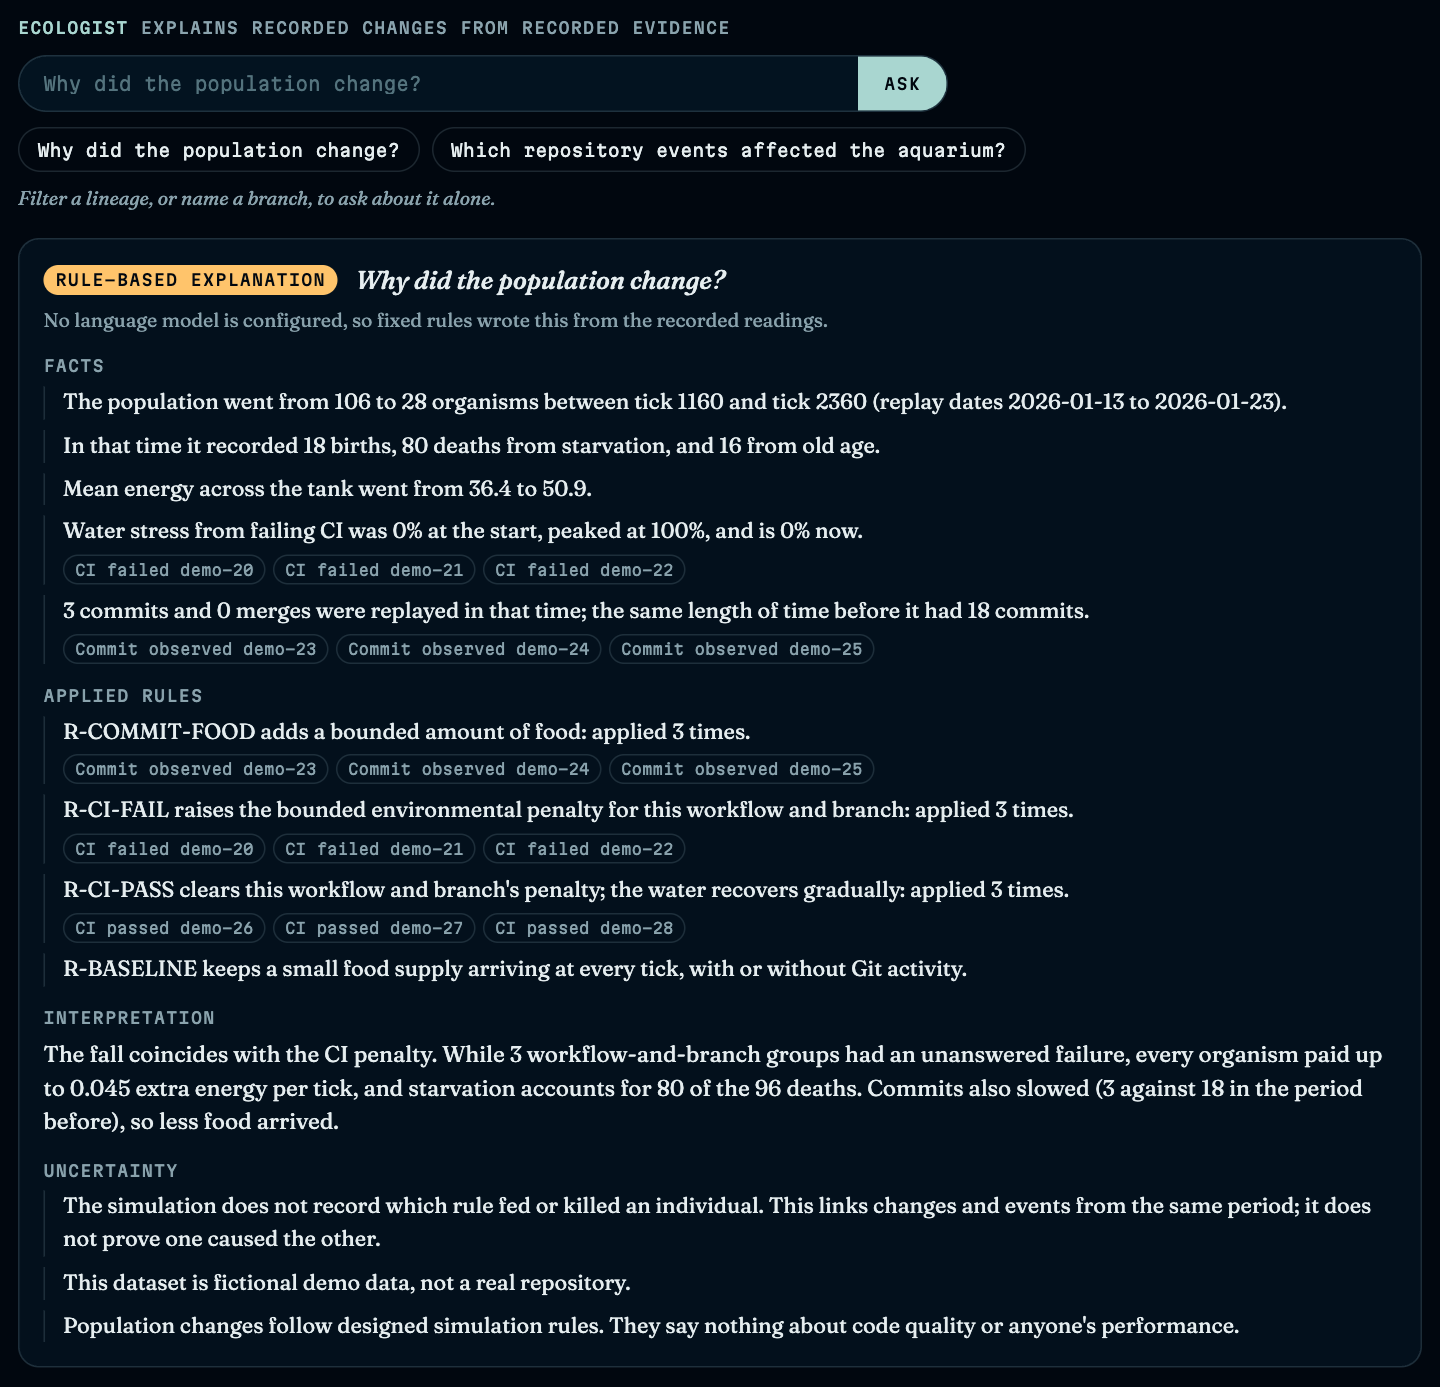
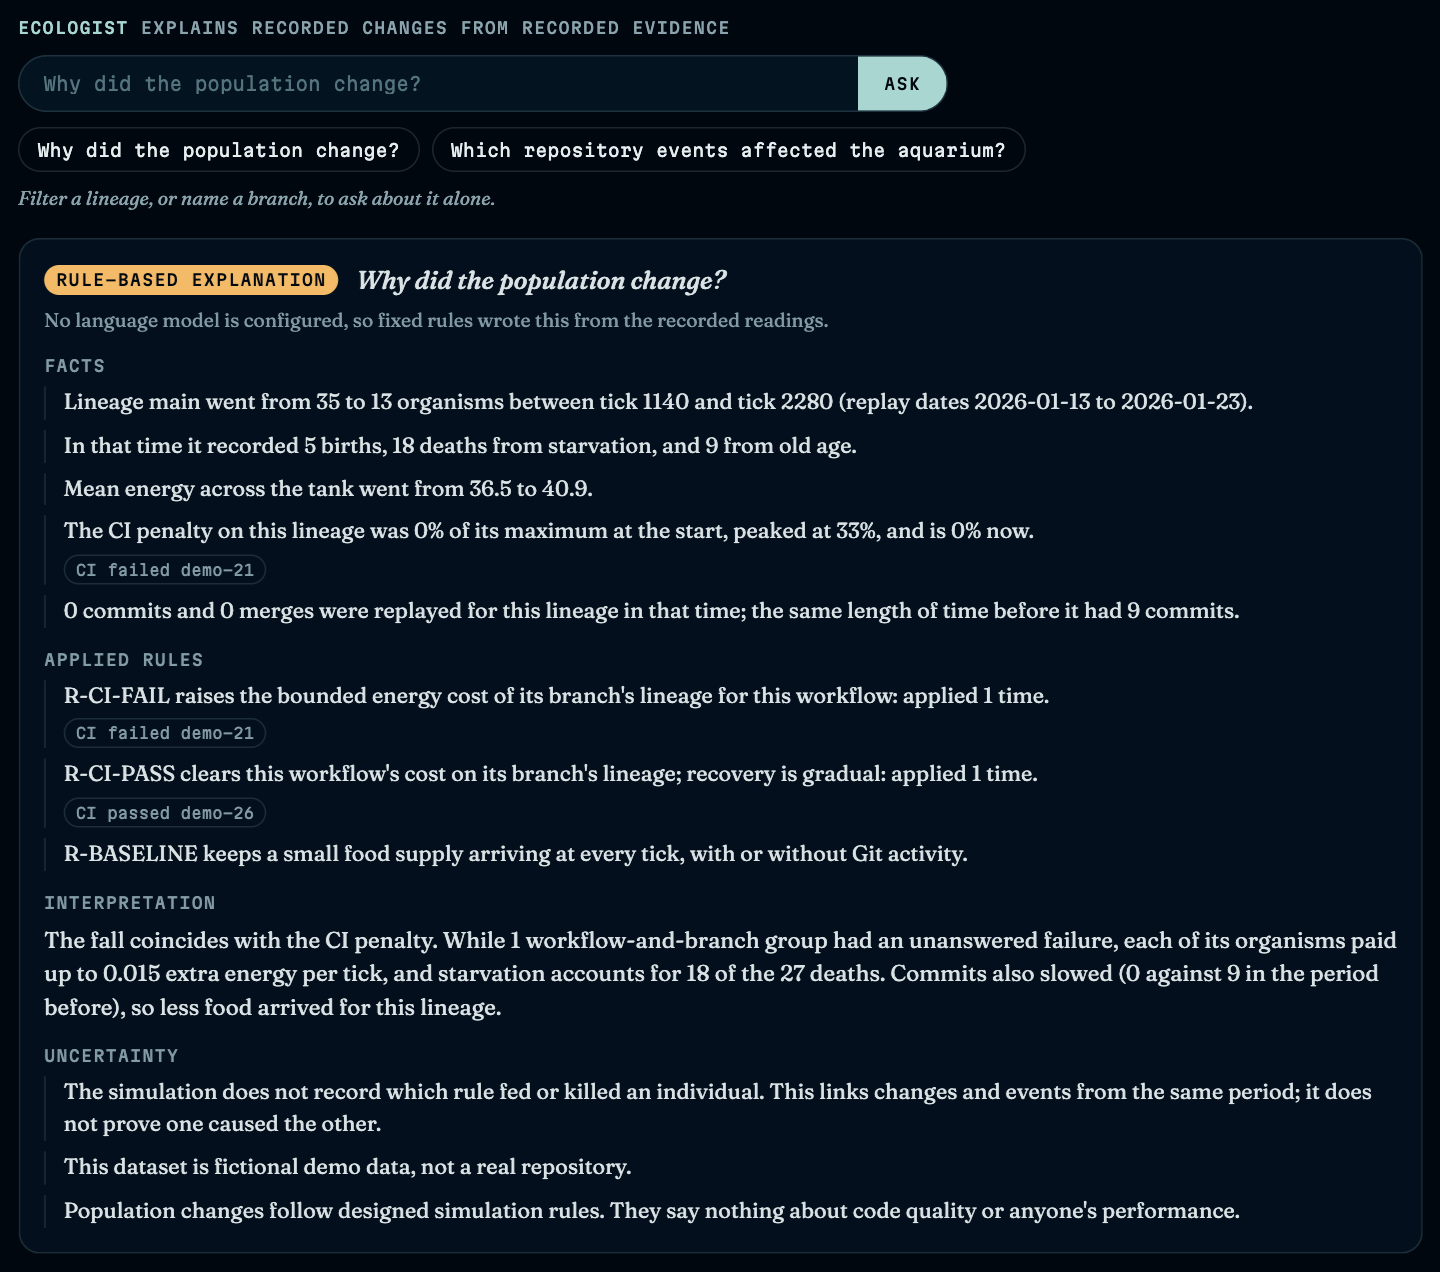
docs: describe per-branch effects and the new demo story

Changed region(s): [[0.0, 0.0, 0.9688, 0.9811]]

diff --git a/README.md b/README.md
@@ -2,7 +2,7 @@
 
 **Your repository is an ecosystem. Your code is alive.**
 
-![Timelapse of the built-in demo in a 3D aquarium: fish multiply as commits arrive, the water turns murky and the population collapses while CI is failing, then it clears and recovers after fixes and merges. One fish is followed in the side panel until it starves, and a chart tracks each lineage.](docs/demo.gif)
+![Timelapse of the built-in demo in a 3D aquarium: each branch is its own kind of fish and is fed in its own colour as commits arrive. When CI fails on three branches their fish thin out while the fourth branch carries on, then the main branch recovers as fixes and merges land. One fish is followed in the side panel until it starves, and a chart tracks each lineage.](docs/demo.gif)
 
 *The built-in demo as a timelapse: 30 days of a fictional repository replayed as a living aquarium. It takes about three minutes at normal speed.*
 
@@ -14,21 +14,21 @@ The goal is to make software history visible, explorable, and explainable throug
 
 ## What you are watching
 
-The timelapse is the built-in synthetic demo with seed 1: 67 fictional repository events replayed against a living population. Reset with the same seed and it plays out the same way every time.
+The timelapse is the built-in synthetic demo with seed 1: 68 fictional repository events on four branches replayed against a living population. Reset with the same seed and it plays out the same way every time.
 
 | Replay | Repository activity | In the aquarium |
 | --- | --- | --- |
-| Days 0–9 | Two commits a day, one pull request opened | Every commit drops food and the population grows from 64 to about 105 |
-| Days 9–16 | Three CI workflows fail on three branches while commits slow down | The water turns murky, every organism pays an energy penalty, and the population falls to about 30 |
-| Days 16–30 | Each workflow passes again, two pull requests merge, and commits return at three a day | The water clears gradually, each merge releases a pulse of food, and the population recovers to about 70 |
+| Days 0–9 | Two commits a day spread over all four branches, most of them on `main` | Each commit drops food in its own branch's colour. The tank grows from 64 to about 100, and `main` grows most |
+| Days 9–16 | CI fails on `main`, `feature/coral-cache`, and `fix/pump-timeout`, and work on them stops. Only `experiment/glow` keeps getting commits | The three failing lineages pay an energy penalty and get no food, so they shrink (`main` from about 33 to 14). The experiment's lineage holds steady at about 20. The tank falls to about 42 |
+| Days 16–30 | Each workflow passes again. The two finished branches merge into `main` and go quiet, while `main` and the experiment carry on | Each merge releases food for `main`, which recovers to about 34, level with the experiment. The two merged branches stay small. The tank ends near 80 |
 
 How to read the tank:
 
-- **Species and colour** are the lineage, one per observed branch: each branch is its own kind of fish (a reef fish, a slim dart, a tall disc, a fantail), shown beside its name in the legend. Fish of a lineage school together, and each fish's own `hue` gene shifts its shade slightly. With more than four branches the four shapes repeat in new colours.
+- **Species and colour** are the lineage, one per observed branch: each branch is its own kind of fish (a reef fish, a slim dart, a tall disc, a fantail), shown beside its name in the legend. Repository events act on the lineage of their own branch, so a lineage does well when its branch is active and its CI is passing. Fish of a lineage school together, and each fish's own `hue` gene shifts its shade slightly. With more than four branches the four shapes repeat in new colours.
 - **A pale, washed-out fish** is a hungry one; colour returns as it feeds.
 - **Size, slimness, fin size, and tail-beat speed** come from each fish's genes: faster swimmers are slimmer and beat their tails faster.
-- **Yellow pellets** are food. Commits and merges add it; a small baseline supply never stops.
-- **Murky green water** means a CI workflow is failing, or the tank is still recovering from one that was.
+- **Coloured pellets** are food for the lineage of that colour: a commit feeds its own branch's lineage, and a merge feeds the lineage of the branch it merged into. **Pale pellets** are the small baseline supply, which anyone may eat.
+- **Murky green water** means CI is failing somewhere. Only the lineage of the failing branch pays for it: its entry in the Lineages list is marked "CI penalty" and its fish turn pale as they go hungry. The water shows the average across lineages.
 - **A dashed arc** joins a fish from each lineage when a pull request opens between their branches; **a solid arc** marks a merge.
 - **A fish that grows in from nothing** was just born; **one that fades and sinks** has died.
 - **The timeline** under the tank marks every event: red for a CI failure, white for a merge.
@@ -40,7 +40,7 @@ How to read the tank:
 
 ### Ask why
 
-![The Ecologist answering "Why did the population change?" during the demo's CI failures, with facts, applied rules, interpretation, and uncertainty in separate sections and the cited events listed under each statement](docs/ecologist.png)
+![The Ecologist answering "Why did the population change?" about the `main` lineage alone during the demo's CI failures, with facts, applied rules, interpretation, and uncertainty in separate sections and the cited events listed under each statement](docs/ecologist.png)
 
 The Ecologist answers from what was recorded, in four parts: facts, the rules that ran, an interpretation, and what the records cannot establish. Each statement lists the replayed events it rests on, linked to GitHub when the data is real. The answer above was written by fixed rules, and is labelled as such.
 
@@ -100,15 +100,16 @@ These mappings are designed simulation rules, not measurements of software quali
 
 | Input | Planned aquarium effect | Interpretation boundary |
 | --- | --- | --- |
-| Observed branch snapshot | Initialize a lineage and its starting population | A current branch snapshot does not establish its historical creation time |
-| Deduplicated commit | Add a bounded amount of food | Commit volume is not a quality or productivity score |
+| Observed branch snapshot | Initialize a lineage and its starting population. Up to eight branches: the default branch, then those with the most pull request and CI activity | A current branch snapshot does not establish its historical creation time |
+| Deduplicated commit | Add a bounded amount of food for its branch's lineage | Commit volume is not a quality or productivity score |
 | Pull request opened | Display an interaction between relevant lineages | Opening a PR is not a merge or biological reproduction |
-| Confirmed PR merge | Add a bounded resource pulse and a visual connection | A Git merge does not require simulated crossbreeding |
-| Supported CI failure or timeout | Increase a bounded environmental penalty | Failure does not establish poor overall code quality |
+| Confirmed PR merge | Add a bounded food pulse for the base branch's lineage, and a visual connection | A Git merge does not require simulated crossbreeding |
+| Supported CI failure or timeout | Increase a bounded energy cost for its branch's lineage only | Failure does not establish poor overall code quality |
 | Subsequent CI success in the same workflow and branch group | Clear that group's failure contribution and allow gradual recovery | Success in one group does not clear failures in another |
-| No new Git records | Continue the configured baseline resource supply | Baseline food is a simulation rule, not fabricated Git activity |
+| No new Git records | Continue the configured baseline resource supply, shared by every lineage | Baseline food is a simulation rule, not fabricated Git activity |
+| Commit or merge on a branch whose lineage has fewer than four organisms | Bring the lineage back up to four founders (R-BRANCH-FOUND) | Organisms dying never deletes a branch; founders have random genes and no parents |
 
-Shared commits will be deduplicated by repository and SHA. Unknown historical branch attribution will remain explicit, and resource effects will be capped so that busy repositories cannot create unlimited populations.
+Shared commits will be deduplicated by repository and SHA. A commit counts for the default branch if it is there, otherwise for the first lineage branch it was found on. Pull requests and workflow runs on branches that are not shown as lineages are left out and counted on screen. Unknown historical branch attribution will remain explicit, and resource effects will be capped so that busy repositories cannot create unlimited populations.
 
 ### Data boundaries
 
@@ -184,7 +185,7 @@ flowchart TD
 - `src/main.ts` and `src/style.css`: the page, controls, event log, organism panel, chart, and Ecologist panel. Motion is blended between simulation ticks at display frame rate. The two typefaces (Fraunces and Martian Mono) are bundled at build time, so the page still loads nothing from the network.
 - `vite.config.ts`: the optional model endpoint, `POST /api/explain`, served by `pnpm dev` and `pnpm preview` only. The Anthropic SDK is a development dependency used here and nowhere in the page.
 
-The import calls GitHub's public REST API directly from the browser, so there is no server and no token. That limits it to GitHub's unauthenticated quota of 60 requests per hour (four per import) and to the 100 most recent commits, pull requests, and workflow runs; whatever is cut off is listed on screen. React, PixiJS, the workspace split, Fastify, Zod, IndexedDB, and Playwright were not needed to meet the MVP and have not been introduced: the page is plain TypeScript and DOM, the model endpoint is a few lines of dev-server middleware, nothing is saved between visits, and browser checks were run with a script driving headless Chrome rather than a test suite in the repository.
+The import calls GitHub's public REST API directly from the browser, so there is no server and no token. That limits it to GitHub's unauthenticated quota of 60 requests per hour (four per import plus one per lineage, so at most twelve) and to the 100 most recent commits, pull requests, and workflow runs; whatever is cut off is listed on screen. React, PixiJS, the workspace split, Fastify, Zod, IndexedDB, and Playwright were not needed to meet the MVP and have not been introduced: the page is plain TypeScript and DOM, the model endpoint is a few lines of dev-server middleware, nothing is saved between visits, and browser checks were run with a script driving headless Chrome rather than a test suite in the repository.
 
 The simulation package will not depend on React, PixiJS, network access, or storage APIs. Rendering will consume state without changing it. AI responses will explain recorded state without controlling organisms.
 
@@ -281,7 +282,7 @@ The initial performance target for a specified desktop test machine is an averag
 
 ### Validation results
 
-Measured on 2026-11-15 on one machine: Apple M5, 24 GB, Node.js 22.21.1, and Chrome 157 running headless with GPU rendering at 1440 by 1000. The unit tests are in the repository (`pnpm test`, 8 tests). The browser checks were run by a script and are not part of the repository.
+Measured on 2026-11-15 on one machine: Apple M5, 24 GB, Node.js 22.21.1, and Chrome 157 running headless with GPU rendering at 1440 by 1000. The unit tests are in the repository (`pnpm test`, 9 tests). The browser checks were run by a script and are not part of the repository. The frame rate, tick time, and stability figures were measured before events were made to act on their own lineage and were not repeated; the two live imports were.
 
 | Target | Result |
 | --- | --- |
@@ -293,8 +294,8 @@ Measured on 2026-11-15 on one machine: Apple M5, 24 GB, Node.js 22.21.1, and Chr
 | Missing-data and truncation notices | Pass (unit test), and three notices appeared on a live import |
 | Rejection of nonexistent AI evidence references | Pass (unit test), and end to end against a stand-in model server |
 | Offline demo | The demo makes no request to another site. Asking the Ecologist tries the local endpoint and falls back when it is absent |
-| Import, inspect, explain, reset | Pass on a live import of this repository: 16 commits, 3 pull requests, 3 merges, 0 CI runs, with every evidence link pointing to github.com |
-| CI mapping on live data | Pass on a live import of `vitejs/vite`: 76 workflow runs became 17 failure and 59 success events, water stress peaked at 100%, and the explanation cited R-CI-FAIL and R-CI-PASS |
+| Import, inspect, explain, reset | Pass on a live import of this repository: 26 commits, 4 pull requests, 4 merges, 0 CI runs, with every evidence link pointing to github.com |
+| Per-branch mapping on live data | Pass on a live import of `vitejs/vite`: 8 lineages, 11 workflow runs on their branches, and at most 2 lineages under a CI penalty at once while the others were unaffected |
 | Phone width (430 px) | Pass: single column with no horizontal scrolling |
 | A browser without WebGL | Pass in Chrome with WebGL disabled: a message replaces the tank, and the measurements, chart, event log, lineage filter, pause, and Ecologist all work |
 | 15-minute stability run and repeated resets | Pass: 72,000 ticks at 4x in 15 minutes at a steady 60 frames per second, memory between 35 and 57 MB with no growth, no errors, and 20 resets that each returned the same tick-0 state hash |
@@ -306,15 +307,15 @@ Not validated:
 - **Across engines.** Node.js 22 and Chrome 157 give different state hashes from tick 0, because `Math.cos` differs in the last bit for one starting direction. Replays are reproducible within one engine, which is the scope stated under [Reproducibility](#reproducibility).
 - **The real model.** No API key was used. See [AI Ecologist](#ai-ecologist).
 - **Frame rate with 200 organisms.** Only the simulation tick time was measured at that size.
-- **Busy repositories replay a short window.** A live import of `vitejs/vite` brought in 76 CI runs (17 failed) and the water reached full stress, but its 100 most recent runs span so little time that the replay held only one commit. The import says so under Data boundaries; a longer history needs more than one page per source.
+- **Busy repositories replay a short window.** A live import of `vitejs/vite` held only two commits, because its 100 most recent workflow runs span so little time. The import says so under Data boundaries; a longer history needs more than one page per source (issue #8). With so little history, the differences between its lineages are still mostly chance.
 
 ### Three-minute demonstration
 
 1. Open the app. The demo starts on its own; the badge says the data is synthetic.
 2. Click a fish and read its genome, then click a lineage in the list to follow one branch.
-3. Around day 9 three CI workflows fail: the water turns murky, the chart is shaded, and the population falls.
-4. Ask the Ecologist "Why did the population change?" and read the facts, rules, and cited events.
-5. Watch CI pass and two pull requests merge: the water clears and the population recovers.
+3. Around day 9 CI fails on three branches: their lineages are marked "CI penalty" and shrink, while the fourth carries on. Click a failing lineage to see its line fall in the chart.
+4. With that lineage still selected, ask the Ecologist "Why did the population change?" and read the facts, rules, and cited events for that branch.
+5. Watch CI pass and two pull requests merge: `main` recovers on the merge food, and the merged branches go quiet.
 6. Pause, note the tick and state hash, reset, and pause at the same tick: the hash is the same.
 7. Import a public repository and open "Data boundaries" to see what was truncated or missing.
 
